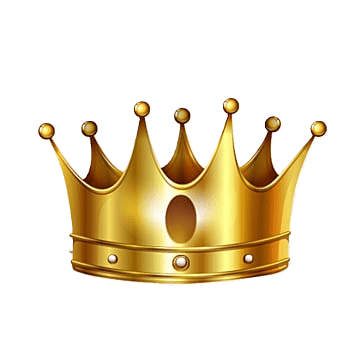
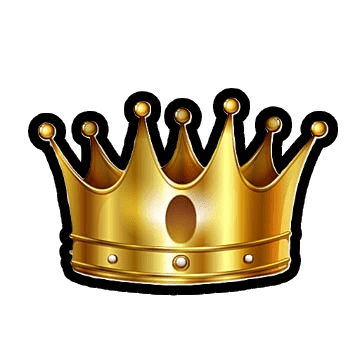
4.

Changed region(s): [[0.0611, 0.2444, 0.9472, 0.825]]

diff --git a/dama+koruna.py b/dama+koruna.py
@@ -45,7 +45,7 @@ def nakresli_sachovnicu():
             if (riadok + stlpec) % 2 == 0:
                 farba = (255, 255, 255)  #biela
             else:
-                farba = (0, 0, 0)  #cierna
+                farba = (67, 67, 67)  #cierna
 
             kreslenie.rectangle([x1, y1, x2, y2], fill=farba)
 

diff --git a/dama.py b/dama.py
@@ -56,7 +56,7 @@ def nakresli_sachovnicu():
             if (riadok + stlpec) % 2 == 0:
                 farba = (255, 255, 255)  #biela
             else:
-                farba = (0, 0, 0)  #cierna
+                farba = (67, 67, 67)  #cierna
 
             kreslenie.rectangle([x1, y1, x2, y2], fill=farba)
 
